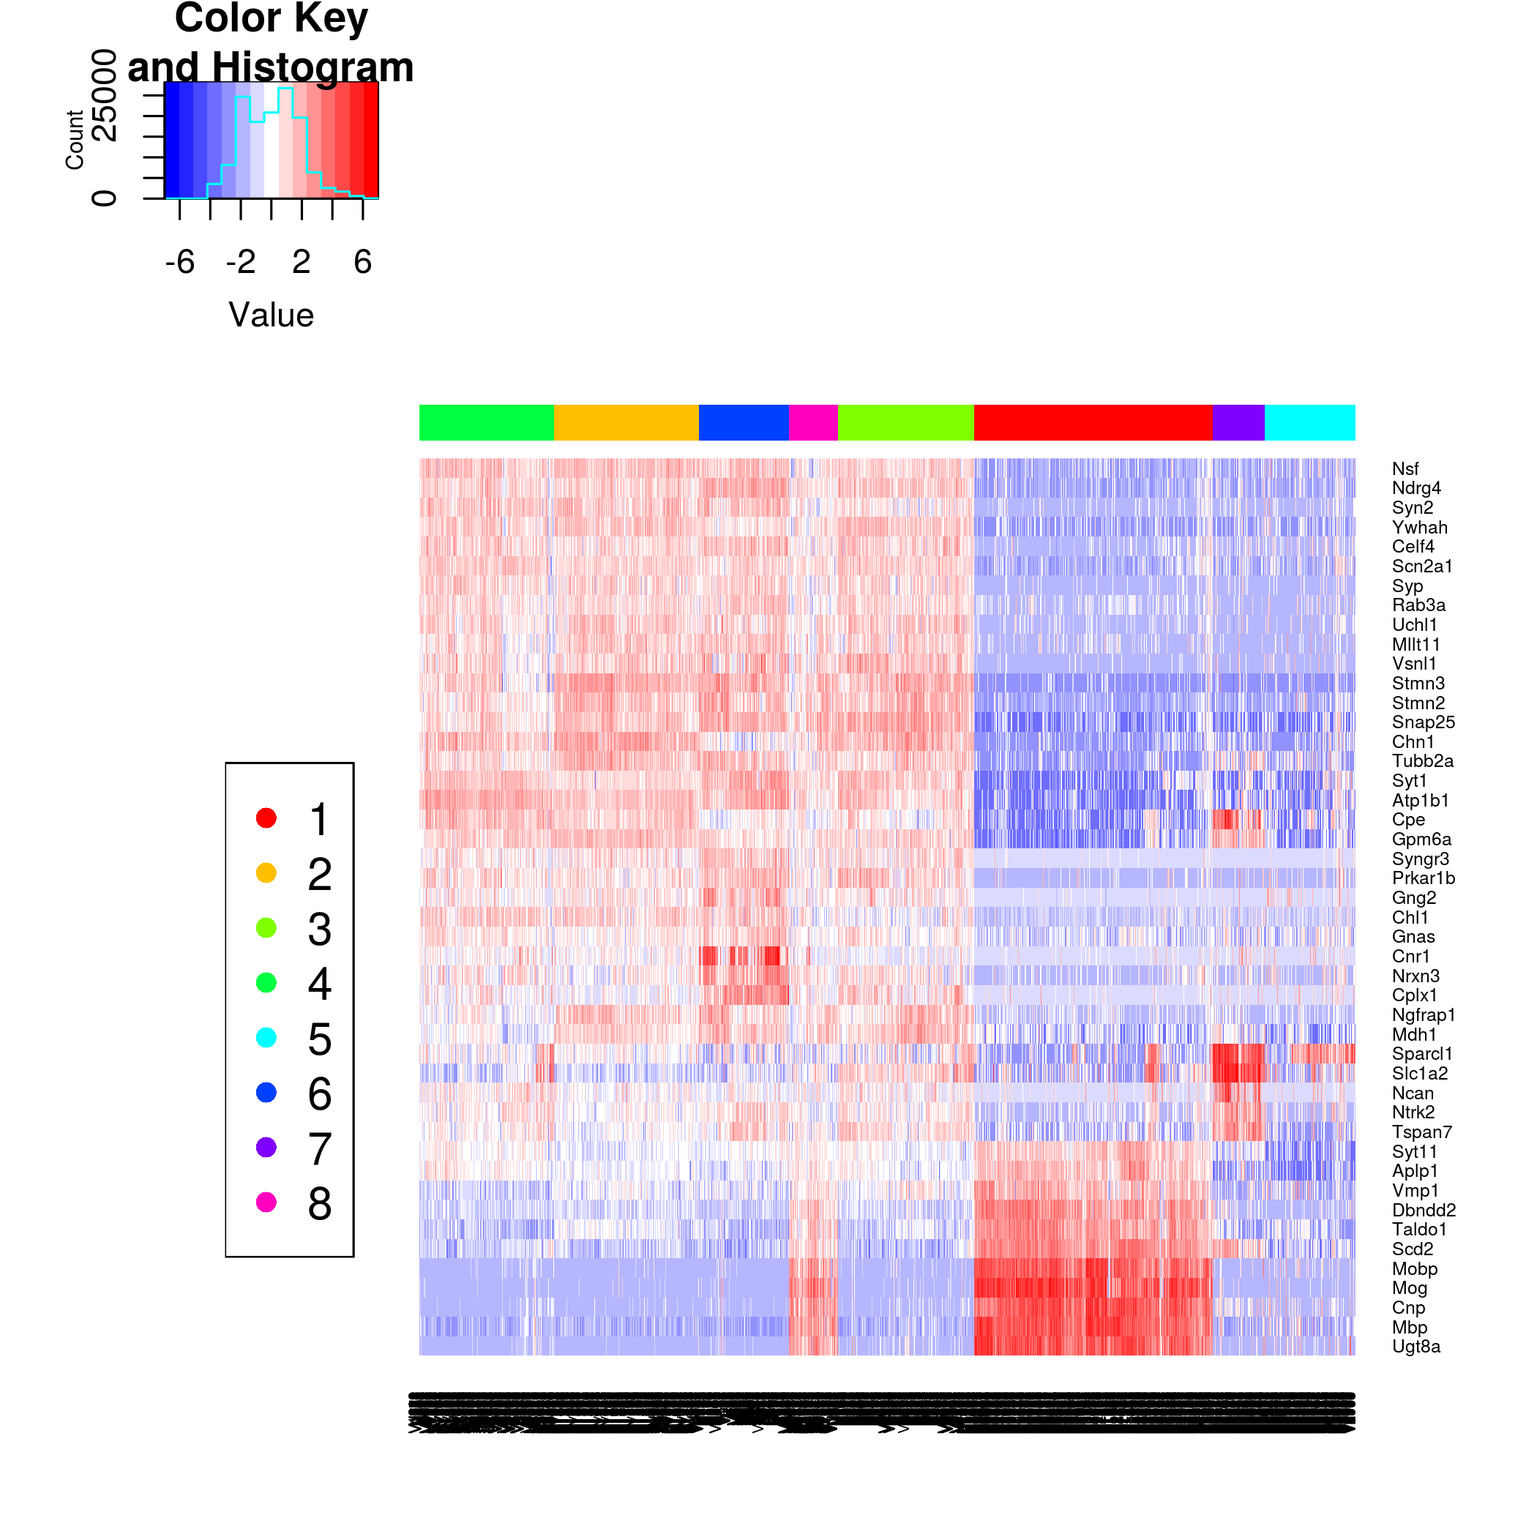
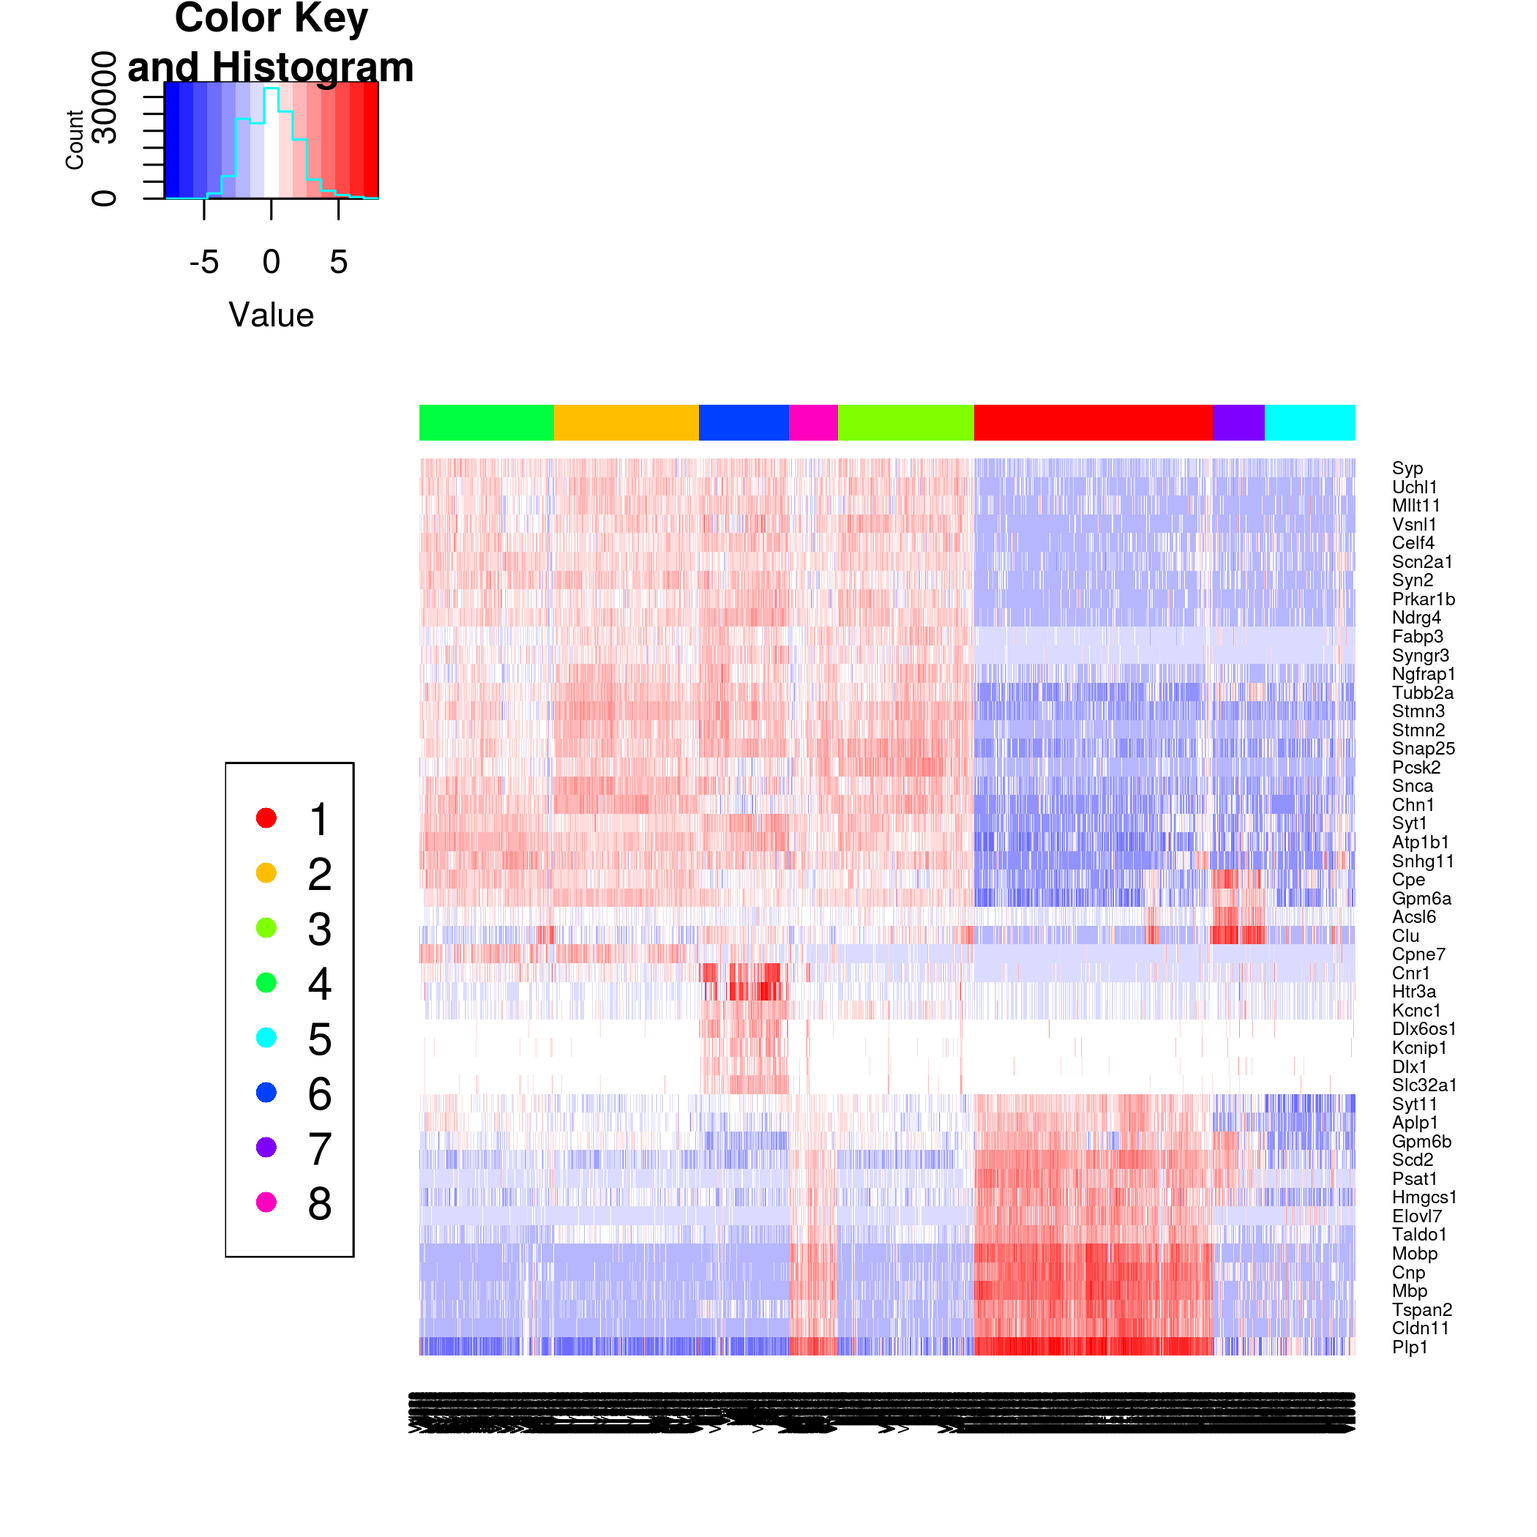
Updated expected results.

diff --git a/workflow.md b/workflow.md
@@ -77,8 +77,10 @@ For convenience, the counts for spike-in transcripts and endogenous genes are st
 ```r
 library(R.utils)
 gunzip("GSE61533_HTSEQ_count_results.xls.gz", remove=FALSE, overwrite=TRUE)
-library(gdata)
-all.counts <- read.xls('GSE61533_HTSEQ_count_results.xls', sheet=1, header=TRUE, row.names=1)
+library(readxl)
+all.counts <- as.data.frame(read_excel('GSE61533_HTSEQ_count_results.xls', sheet=1))
+rownames(all.counts) <- all.counts$ID
+all.counts <- all.counts[,-1]
 library(scater)
 sce <- newSCESet(countData=all.counts)
 dim(sce)
@@ -1347,102 +1349,46 @@ For simplicity, though, we will only use the broad clusters corresponding to cle
 
 
 
-
 ## Detecting marker genes between subpopulations
 
-Once putative subpopulations are identified, we can identify marker genes for specific subpopulations of interest.
-This is done by identifying genes that are consistently DE in one subpopulation compared to the others.
-DE testing can be performed using a number of packages, but for this workflow, we will use the *[edgeR](http://bioconductor.org/packages/edgeR)* package [@robinson2010edgeR].
-First, we set up a design matrix specifying which cells belong to each cluster.
-Each `cluster*` coefficient represents the average log-expression of all cells in the corresponding cluster.
-We also block on uninteresting factors such as sex.
+Once putative subpopulations are identified by clustering, we can identify marker genes for each cluster using the `findMarkers` function.
+This fits a linear model to the log-expression values for each gene, using methods in the *[limma](http://bioconductor.org/packages/limma)* package [@law2014voom; @ritchie2015limma].
+The aim is to test for DE in each cluster compared to the others while blocking on uninteresting factors in `design`.
+The top DE genes are likely to be good candidate markers as they can effectively distinguish between cells in different clusters.
 
 
 ```r
-cluster <- factor(my.clusters)
-de.design <- model.matrix(~0 + cluster + sce$sex)
-head(colnames(de.design))
+markers <- findMarkers(sce, my.clusters, block=design)
 ```
 
-```
-## [1] "cluster1" "cluster2" "cluster3" "cluster4" "cluster5" "cluster6"
-```
+For each cluster, the DE results of the relevant comparisons are consolidated into a single output table.
+This allows a set of marker genes to be easily defined by taking the top DE genes from each pairwise comparison between clusters.
+For example, to construct a marker set for cluster 1 from the top 10 genes of each comparison, one would filter `marker.set` to retain rows with `Top` less than or equal to 10.
+Other statistics are also reported for each gene, including the adjusted p-values (see below) and the log-fold changes relative to every other cluster.
 
-We set up a `DGEList` object for entry into the *[edgeR](http://bioconductor.org/packages/edgeR)* analysis.
-This new object contains all relevant information from the original `SCESet` object, including the counts and (library size-adjusted) size factors.
+
 
 
 ```r
-library(edgeR)
-y <- convertTo(sce, type="edgeR")
-```
-
-*[edgeR](http://bioconductor.org/packages/edgeR)* uses negative binomial (NB) distributions to model the read/UMI counts for each sample.
-We estimate the NB dispersion parameter that quantifies the biological variability in expression across cells in the same cluster.
-Large dispersion estimates above 0.5 are often observed in scRNA-seq data due to technical noise, in contrast to bulk data where values of 0.05-0.2 are more typical.
-We then use the design matrix to fit a NB GLM to the counts for each gene [@mccarthy2012differential].
-
-
-```r
-y <- estimateDisp(y, de.design)
-fit <- glmFit(y, de.design)
-summary(y$tagwise.dispersion)
-```
-
-```
-##      Min.   1st Qu.    Median      Mean   3rd Qu.      Max. 
-##   0.04818   0.36474   0.75804   1.83633   1.74182 102.40000
-```
-
-
-
-We assume that one of the clusters corresponds to our subpopulation of interest.
-Each gene is tested for DE between the chosen cluster and every other cluster in the dataset.
-We demonstrate this below for cluster 1, though the same process can be applied to any other cluster by changing `chosen.clust`.
-
-
-```r
-result.logFC <- result.PValue <- list()
-chosen.clust <- which(levels(cluster)=="1") # character, as 'cluster' is a factor.
-for (clust in seq_len(nlevels(cluster))) {
-    if (clust==chosen.clust) { next }
-    contrast <- numeric(ncol(de.design))
-    contrast[chosen.clust] <- 1
-    contrast[clust] <- -1
-    res <- glmLRT(fit, contrast=contrast)
-    con.name <- paste0('vs.', levels(cluster)[clust])
-    result.logFC[[con.name]] <- res$table$logFC
-    result.PValue[[con.name]] <- res$table$PValue
-}
-```
-
-Potential marker genes are identified by taking the top set of DE genes from each pairwise comparison between clusters.
-We arrange the results into a single output table that allows a marker set to be easily defined for a user-specified size of the top set.
-For example, to construct a marker set from the top 10 genes of each comparison, one would filter `marker.set` to retain rows with `Top` less than or equal to 10.
-
-
-```r
-collected.ranks <- lapply(result.PValue, rank, ties="first")
-min.rank <- do.call(pmin, collected.ranks)
-marker.set <- data.frame(Top=min.rank, Gene=rownames(y), 
-    logFC=do.call(cbind, result.logFC), stringsAsFactors=FALSE)
-marker.set <- marker.set[order(marker.set$Top),]
+marker.set <- markers[["1"]]
 head(marker.set, 10)
 ```
 
 ```
-##      Top    Gene logFC.vs.2 logFC.vs.3 logFC.vs.4 logFC.vs.5 logFC.vs.6 logFC.vs.7 logFC.vs.8
-## 52     1    Cnr1 -1.7871178  -1.437829  -2.139859 -0.9178238  -6.040186 -1.4714426 -2.4892359
-## 261    1 Prkar1b -2.7443265  -3.445368  -2.912522 -1.1608480  -3.646499 -0.3282805 -2.5948350
-## 298    1  Mllt11 -2.9151367  -2.804519  -2.170975  0.3431925  -3.116426  1.3790003 -2.1712795
-## 336    1    Syt1 -2.4008169  -2.945897  -2.915966 -1.1279731  -3.562019 -0.6609952 -2.3225831
-## 614    1  Tspan7 -0.4824611  -1.812664  -1.159403  0.1031374  -1.814971 -3.3864049 -0.9806075
-## 652    1   Stmn3 -4.6032688  -4.310863  -3.316599 -0.2047676  -4.441581 -0.5618373 -3.7461560
-## 1888   1   Syt11  2.0499993   1.600859   1.271067  2.9597889   1.520194  1.7962366  1.2082822
-## 64     2    Gng2 -3.0155283  -3.022123  -2.481303 -1.8553565  -4.385191 -0.4180842 -2.7153264
-## 347    2   Ndrg4 -3.4774910  -3.806337  -3.341831 -0.8944274  -4.398334 -0.5483395 -3.0926722
-## 820    2   Stmn2 -4.2371013  -4.310193  -3.196093 -1.3543824  -4.310452  0.0366840 -3.8767507
+##    Top    Gene       FDR        2       3       4        5     6       7      8
+## 1    1   Htr3a  0.00e+00  0.00946 -0.0949 -0.0167 -0.03944 -3.19 -0.1200 -0.162
+## 2    1 Prkar1b  0.00e+00 -2.12466 -2.6106 -2.1648 -0.23133 -2.91 -0.0465 -1.884
+## 3    1  Mllt11  6.01e-99 -2.69088 -2.4910 -1.8804  0.13868 -2.87  0.3589 -1.733
+## 4    1    Syt1 4.23e-307 -3.08566 -3.5034 -3.5481 -0.73261 -4.10 -0.2287 -2.890
+## 5    1   Stmn3  0.00e+00 -4.42010 -4.0226 -2.9896  0.07845 -4.16 -0.0340 -3.276
+## 6    1     Clu  0.00e+00 -0.33316 -1.3890 -0.4827 -0.17342 -1.71 -5.5034 -0.647
+## 7    1   Gpm6b  0.00e+00  1.22472  1.3894  1.5755  3.49525  3.29  0.0830  0.736
+## 8    2  Kcnip1  0.00e+00  0.01789 -0.0369 -0.0116  0.00168 -1.44 -0.0294 -0.152
+## 9    2   Ndrg4 1.17e-230 -3.05239 -3.3451 -2.8611 -0.16575 -3.90 -0.2400 -2.618
+## 10   2  Snap25  0.00e+00 -3.81108 -4.5051 -3.0332 -0.44152 -4.24 -0.0256 -3.691
 ```
+
+
 
 We save the list of candidate marker genes for further examination.
 We also examine their expression profiles to verify that the DE signature is robust.
@@ -1468,12 +1414,21 @@ For example, in a mixed population of CD4^+^-only, CD8^+^-only, double-positive 
 With our approach, both of these genes will be picked up as candidate markers as they will be DE between at least one pair of subpopulations.
 A combination of markers can then be chosen to characterize a subpopulation, which is more flexible than trying to find uniquely DE genes.
 
-It must be stressed that the _p_-values computed here cannot be interpreted as measures of significance.
+It must be stressed that the (adjusted) _p_-values computed here cannot be properly interpreted as measures of significance.
 This is because the clusters have been empirically identified from the data.
-*[edgeR](http://bioconductor.org/packages/edgeR)* does not account for the uncertainty and stochasticity in clustering, which means that the _p_-values are much lower than they should be. 
-As such, these _p_-values should only be used for ranking candidate markers for follow-up studies.
+*[limma](http://bioconductor.org/packages/limma)* does not account for the uncertainty of clustering, which means that the _p_-values are much lower than they should be. 
 However, this is not a concern in other analyses where the groups are pre-defined.
 For such analyses, the FDR-adjusted _p_-value can be directly used to define significant genes for each DE comparison, though some care may be required to deal with plate effects [@hicks2015widespread; @tung2016batch].
+
+The `SCESet` object can also be easily transformed for use in other DE analysis methods.
+For example, the `convertTo` function can be used to construct a `DGEList` for input into the *[edgeR](http://bioconductor.org/packages/edgeR)* pipeline [@robinson2010edgeR].
+This allows users to construct their own marker detection pipeline, though we find that direct use of `findMarkers` is usually sufficient.
+
+
+```r
+library(edgeR)
+y <- convertTo(sce, type="edgeR")
+```
 
 ## Additional comments
 
@@ -1574,8 +1529,9 @@ Rather, more sophisticated strategies are required, one of which is demonstrated
 
 
 ```r
-library(openxlsx)
-incoming <- read.xlsx("nbt.3102-S7.xlsx", sheet=1, rowNames=TRUE)
+incoming <- as.data.frame(read_excel("nbt.3102-S7.xlsx", sheet=1))
+rownames(incoming) <- incoming[,1]
+incoming <- incoming[,-1]
 incoming <- incoming[,!duplicated(colnames(incoming))] # Remove duplicated genes.
 sce <- newSCESet(exprsData=t(incoming))
 ```
@@ -1773,65 +1729,64 @@ sessionInfo()
 ## other attached packages:
 ##  [1] TxDb.Mmusculus.UCSC.mm10.ensGene_3.4.0 GenomicFeatures_1.27.10               
 ##  [3] GenomicRanges_1.27.23                  GenomeInfoDb_1.11.9                   
-##  [5] openxlsx_4.0.0                         edgeR_3.17.6                          
-##  [7] dynamicTreeCut_1.63-1                  limma_3.31.19                         
-##  [9] gplots_3.0.1                           RBGL_1.51.0                           
-## [11] graph_1.53.0                           org.Mm.eg.db_3.4.0                    
-## [13] AnnotationDbi_1.37.4                   IRanges_2.9.19                        
-## [15] S4Vectors_0.13.15                      scran_1.3.12                          
-## [17] scater_1.3.35                          ggplot2_2.2.1                         
-## [19] Biobase_2.35.1                         BiocGenerics_0.21.3                   
-## [21] gdata_2.17.0                           R.utils_2.5.0                         
-## [23] R.oo_1.21.0                            R.methodsS3_1.7.1                     
-## [25] destiny_2.1.0                          mvoutlier_2.0.8                       
-## [27] sgeostat_1.0-27                        Rtsne_0.11                            
-## [29] BiocParallel_1.9.5                     knitr_1.15.1                          
-## [31] BiocStyle_2.3.31                      
+##  [5] edgeR_3.17.6                           dynamicTreeCut_1.63-1                 
+##  [7] limma_3.31.19                          gplots_3.0.1                          
+##  [9] RBGL_1.51.0                            graph_1.53.0                          
+## [11] org.Mm.eg.db_3.4.0                     AnnotationDbi_1.37.4                  
+## [13] IRanges_2.9.19                         S4Vectors_0.13.15                     
+## [15] scran_1.3.12                           scater_1.3.35                         
+## [17] ggplot2_2.2.1                          Biobase_2.35.1                        
+## [19] BiocGenerics_0.21.3                    readxl_0.1.1                          
+## [21] R.utils_2.5.0                          R.oo_1.21.0                           
+## [23] R.methodsS3_1.7.1                      destiny_2.1.0                         
+## [25] mvoutlier_2.0.8                        sgeostat_1.0-27                       
+## [27] Rtsne_0.11                             BiocParallel_1.9.5                    
+## [29] knitr_1.15.1                           BiocStyle_2.3.31                      
 ## 
 ## loaded via a namespace (and not attached):
 ##   [1] backports_1.0.5            Hmisc_4.0-2                RcppEigen_0.3.2.9.1       
 ##   [4] plyr_1.8.4                 igraph_1.0.1               lazyeval_0.2.0            
 ##   [7] sp_1.2-4                   shinydashboard_0.5.3       splines_3.4.0             
 ##  [10] digest_0.6.12              htmltools_0.3.5            viridis_0.3.4             
-##  [13] magrittr_1.5               checkmate_1.8.2            memoise_1.0.0             
-##  [16] cluster_2.0.6              Biostrings_2.43.5          matrixStats_0.51.0        
-##  [19] xts_0.9-7                  colorspace_1.3-2           rrcov_1.4-3               
-##  [22] dplyr_0.5.0                tximport_1.3.12            RCurl_1.95-4.8            
-##  [25] lme4_1.1-12                survival_2.41-2            zoo_1.7-14                
-##  [28] gtable_0.2.0               XVector_0.15.2             zlibbioc_1.21.0           
-##  [31] MatrixModels_0.4-1         DelayedArray_0.1.7         car_2.1-4                 
-##  [34] kernlab_0.9-25             prabclus_2.2-6             DEoptimR_1.0-8            
-##  [37] SparseM_1.76               VIM_4.6.0                  scales_0.4.1              
-##  [40] mvtnorm_1.0-6              DBI_0.6                    GGally_1.3.0              
-##  [43] Rcpp_0.12.10               sROC_0.1-2                 xtable_1.8-2              
-##  [46] laeken_0.4.6               htmlTable_1.9              foreign_0.8-67            
-##  [49] proxy_0.4-17               mclust_5.2.3               Formula_1.2-1             
-##  [52] vcd_1.4-3                  htmlwidgets_0.8            FNN_1.1                   
-##  [55] RColorBrewer_1.1-2         fpc_2.1-10                 acepack_1.4.1             
-##  [58] modeltools_0.2-21          reshape_0.8.6              XML_3.98-1.5              
-##  [61] flexmix_2.3-13             nnet_7.3-12                locfit_1.5-9.1            
-##  [64] labeling_0.3               reshape2_1.4.2             munsell_0.4.3             
-##  [67] tools_3.4.0                RSQLite_1.1-2              pls_2.6-0                 
-##  [70] evaluate_0.10              stringr_1.2.0              cvTools_0.3.2             
-##  [73] yaml_2.1.14                robustbase_0.92-7          caTools_1.17.1            
-##  [76] nlme_3.1-131               mime_0.5                   quantreg_5.29             
-##  [79] biomaRt_2.31.4             pbkrtest_0.4-7             beeswarm_0.2.3            
-##  [82] e1071_1.6-8                statmod_1.4.29             smoother_1.1              
-##  [85] tibble_1.2                 robCompositions_2.0.3      pcaPP_1.9-61              
-##  [88] stringi_1.1.3              highr_0.6                  lattice_0.20-34           
-##  [91] trimcluster_0.1-2          Matrix_1.2-8               nloptr_1.0.4              
-##  [94] lmtest_0.9-35              cowplot_0.7.0              data.table_1.10.4         
-##  [97] bitops_1.0-6               rtracklayer_1.35.9         httpuv_1.3.3              
-## [100] R6_2.2.0                   latticeExtra_0.6-28        KernSmooth_2.23-15        
-## [103] gridExtra_2.2.1            vipor_0.4.4                boot_1.3-18               
-## [106] MASS_7.3-45                gtools_3.5.0               assertthat_0.1            
-## [109] SummarizedExperiment_1.5.7 rhdf5_2.19.1               rjson_0.2.15              
-## [112] rprojroot_1.2              GenomicAlignments_1.11.12  Rsamtools_1.27.13         
-## [115] GenomeInfoDbData_0.99.0    diptest_0.75-7             mgcv_1.8-17               
-## [118] grid_3.4.0                 rpart_4.1-10               class_7.3-14              
-## [121] minqa_1.2.4                rmarkdown_1.3              TTR_0.23-1                
-## [124] scatterplot3d_0.3-38       shiny_1.0.0                base64enc_0.1-3           
-## [127] ggbeeswarm_0.5.3
+##  [13] gdata_2.17.0               magrittr_1.5               checkmate_1.8.2           
+##  [16] memoise_1.0.0              cluster_2.0.6              Biostrings_2.43.5         
+##  [19] matrixStats_0.51.0         xts_0.9-7                  colorspace_1.3-2          
+##  [22] rrcov_1.4-3                dplyr_0.5.0                tximport_1.3.13           
+##  [25] RCurl_1.95-4.8             lme4_1.1-12                survival_2.41-2           
+##  [28] zoo_1.7-14                 gtable_0.2.0               XVector_0.15.2            
+##  [31] zlibbioc_1.21.0            MatrixModels_0.4-1         DelayedArray_0.1.7        
+##  [34] car_2.1-4                  kernlab_0.9-25             prabclus_2.2-6            
+##  [37] DEoptimR_1.0-8             SparseM_1.76               VIM_4.6.0                 
+##  [40] scales_0.4.1               mvtnorm_1.0-6              DBI_0.6                   
+##  [43] GGally_1.3.0               Rcpp_0.12.10               sROC_0.1-2                
+##  [46] xtable_1.8-2               laeken_0.4.6               htmlTable_1.9             
+##  [49] foreign_0.8-67             proxy_0.4-17               mclust_5.2.3              
+##  [52] Formula_1.2-1              vcd_1.4-3                  htmlwidgets_0.8           
+##  [55] FNN_1.1                    RColorBrewer_1.1-2         fpc_2.1-10                
+##  [58] acepack_1.4.1              modeltools_0.2-21          reshape_0.8.6             
+##  [61] XML_3.98-1.5               flexmix_2.3-13             nnet_7.3-12               
+##  [64] locfit_1.5-9.1             labeling_0.3               reshape2_1.4.2            
+##  [67] munsell_0.4.3              tools_3.4.0                RSQLite_1.1-2             
+##  [70] pls_2.6-0                  evaluate_0.10              stringr_1.2.0             
+##  [73] cvTools_0.3.2              yaml_2.1.14                robustbase_0.92-7         
+##  [76] caTools_1.17.1             nlme_3.1-131               mime_0.5                  
+##  [79] quantreg_5.29              biomaRt_2.31.4             pbkrtest_0.4-7            
+##  [82] beeswarm_0.2.3             e1071_1.6-8                statmod_1.4.29            
+##  [85] smoother_1.1               tibble_1.2                 robCompositions_2.0.3     
+##  [88] pcaPP_1.9-61               stringi_1.1.3              highr_0.6                 
+##  [91] lattice_0.20-34            trimcluster_0.1-2          Matrix_1.2-8              
+##  [94] nloptr_1.0.4               lmtest_0.9-35              cowplot_0.7.0             
+##  [97] data.table_1.10.4          bitops_1.0-6               rtracklayer_1.35.9        
+## [100] httpuv_1.3.3               R6_2.2.0                   latticeExtra_0.6-28       
+## [103] KernSmooth_2.23-15         gridExtra_2.2.1            vipor_0.4.5               
+## [106] gtools_3.5.0               boot_1.3-18                MASS_7.3-45               
+## [109] assertthat_0.1             SummarizedExperiment_1.5.7 rhdf5_2.19.1              
+## [112] rprojroot_1.2              rjson_0.2.15               GenomicAlignments_1.11.12 
+## [115] Rsamtools_1.27.13          GenomeInfoDbData_0.99.0    diptest_0.75-7            
+## [118] mgcv_1.8-17                grid_3.4.0                 rpart_4.1-10              
+## [121] class_7.3-14               minqa_1.2.4                rmarkdown_1.4             
+## [124] TTR_0.23-1                 scatterplot3d_0.3-38       shiny_1.0.0               
+## [127] base64enc_0.1-3            ggbeeswarm_0.5.3
 ```
 
 
